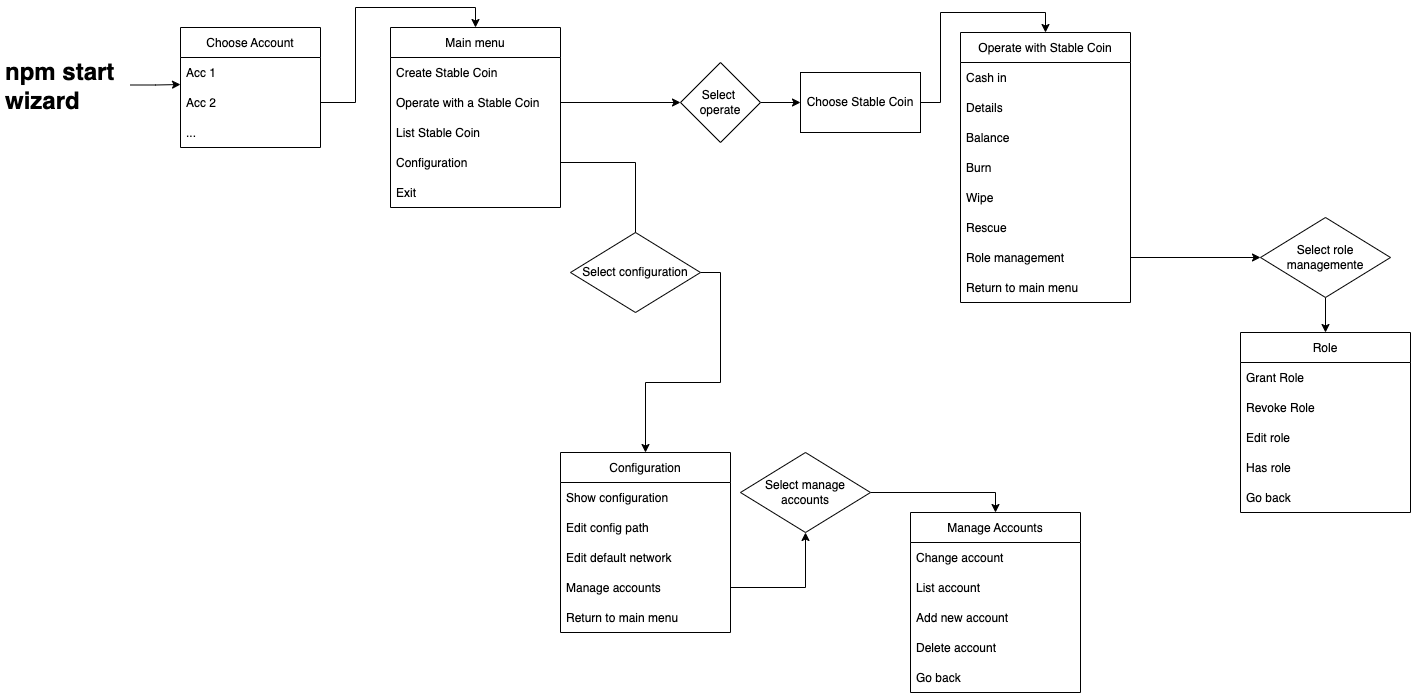
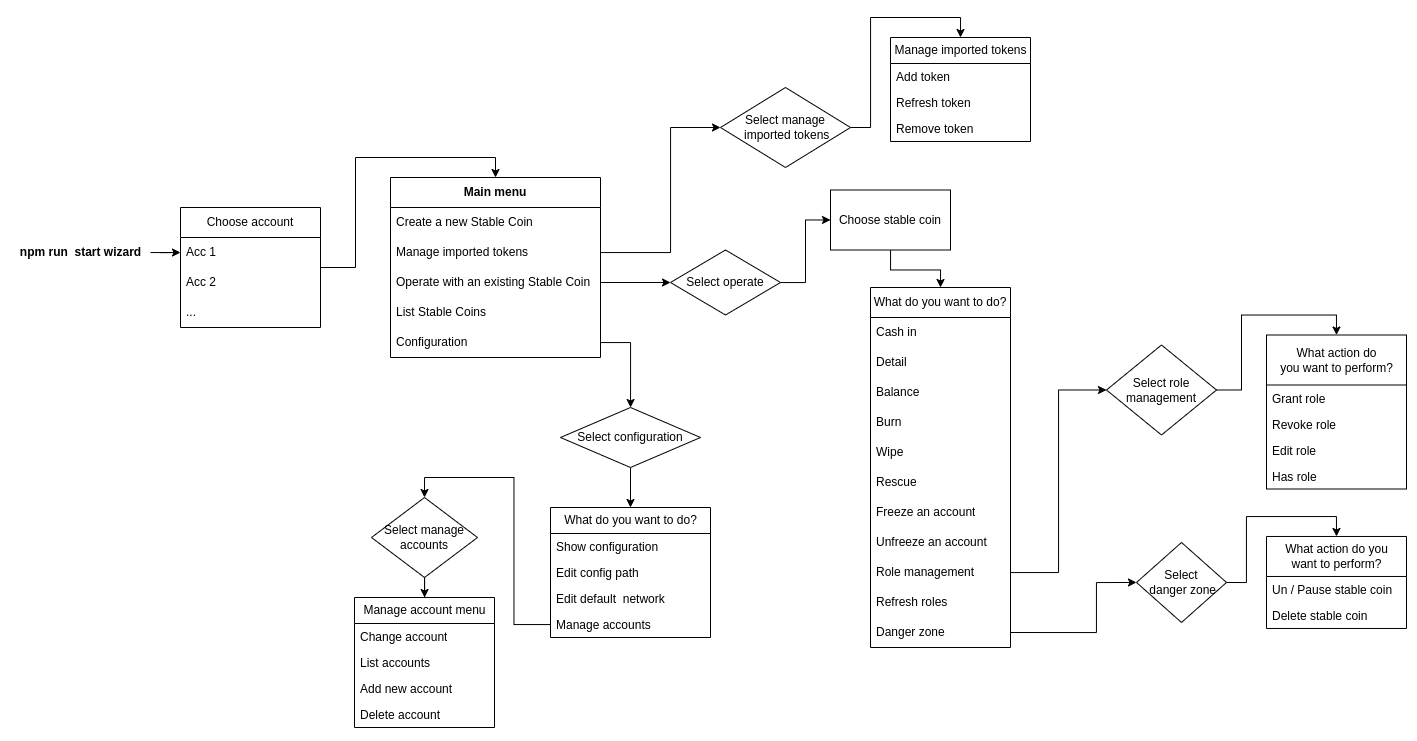
update CLI readme.md

diff --git a/cli/README.md b/cli/README.md
@@ -31,7 +31,14 @@ The command below can be used to install the official release from the NPM repos
 
 ```bash
 TO CHECK!!!
-npm install @hashgraph/hedera-stable-coin-cli
+npm install -g @hashgraph/hedera-stable-coin-cli
+```
+
+Once installed globally you can use the `accelerator wizard` command to run the CLI.
+
+```bash
+TO CHECK!!!
+accelerator start
 ```
 
 # Build
@@ -43,7 +50,7 @@ You must have installed
 - [Node.js](https://nodejs.org/) `>= v16.13` and `< v17`
 - [npm](https://www.npmjs.com/)
 
-Then you must install and build the following projects : 
+Then you must install and build the following projects :
 
 1. [Contracts installation](https://github.com/hashgraph/hedera-accelerator-stablecoin/blob/main/contracts/README.md#installation)
 2. [SDK installation](https://github.com/hashgraph/hedera-accelerator-stablecoin/blob/main/sdk/README.md#installation)
@@ -61,7 +68,7 @@ From the root of the CLI project workspace:
 
 ## Starting the CLI
 
-The first time you execute the `npm accelerator wizard` command in your terminal, if you haven't added your default configuration path the interface will ask you wether you want create a new configuration file in the default path. When the configuration file is created you must configure the default network and add a default account. In order to create the default account you can use [HashPack](https://www.hashpack.app/download) or the [Hedera Developer Portal](https://portal.hedera.com/register).
+The first time you execute the `accelerator wizard` command in your terminal, if you haven't added your default configuration path the interface will ask you wether you want create a new configuration file in the default path. When the configuration file is created you must configure the default network and add a default account. In order to create the default account you can use [HashPack](https://www.hashpack.app/download) or the [Hedera Developer Portal](https://portal.hedera.com/register).
 
 https://user-images.githubusercontent.com/102601367/205074337-a1f09813-9434-42e9-972b-1c40655bb1d1.mov
 
@@ -147,14 +154,14 @@ When your configuration file is set up and at least one account is added and sel
 
 #### Create a new Stable Coin
 
-With this option you are able to create a new stable coin adding the mandatory details like Name, Symbol and Autorenew account. 
+With this option you are able to create a new stable coin adding the mandatory details like Name, Symbol and Autorenew account.
 
 > The autorenew account must be the user's current account otherwise the stable coin creation will not work, this is due to the fact that the autorenew account must sign the underlying token's creation transaction and currently we do not support multi-signatures transactions.
 
 After the minimum details have been added, you will be asked if you want to add optional details like the number of decimals, the initial supply or the max supply. If you reply "no", the default values will be set.
 
 Another question is prompt asking if you would like the smart contract to be set as the owner of all the underlying token keys (admin, wipe, ...), you could however set any account you wish as the owner of any token key.
-If you set the smart contract as a key owner, you will be able to grant and revoke this capacity to any other account, since it is the smart contract that will be ultimately controlling the underlying token. 
+If you set the smart contract as a key owner, you will be able to grant and revoke this capacity to any other account, since it is the smart contract that will be ultimately controlling the underlying token.
 The user that creates the stable coin is granted all the roles if the smart contract is the owner of all the underlying token's keys.
 
 When you add an existing stable coin, you will able to operate with the roles that the stable coin's admin granted you. If after adding a stable coin you are granted other roles, you will have the possibility to refresh the stable coin's roles that you have.
@@ -215,9 +222,9 @@ https://user-images.githubusercontent.com/102601367/205074293-73156a99-fc65-41ba
     - DELETE_ROLE
 
 - **Danger Zone**: This section contains the stable coin operations deemed as particularily "dangerous" either because they affect every single token owner (PAUSE) or because they can not be rolled-back (DELETE).
-  For security reasons these operations are grouped in a "sub-menu" so that users do not run them by mistake. 
-    - **Un/Pause**: Pause and unpause prevents the token from being involved in any kind of operations. 
-    - **Delete**: Marks a token as deleted. This actions cannot be undone.
+  For security reasons these operations are grouped in a "sub-menu" so that users do not run them by mistake.
+  - **Un/Pause**: Pause and unpause prevents the token from being involved in any kind of operations.
+  - **Delete**: Marks a token as deleted. This actions cannot be undone.
 
 #### List Stable Coins
 
